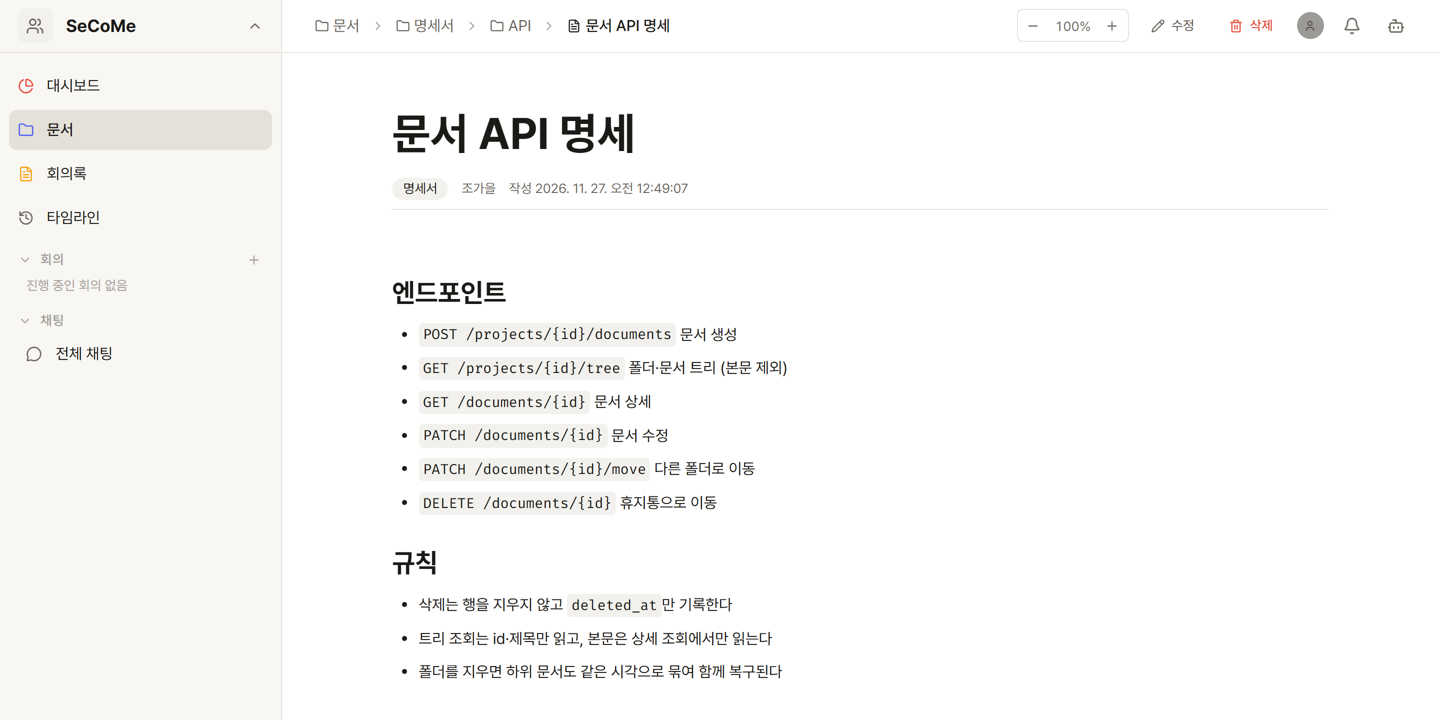
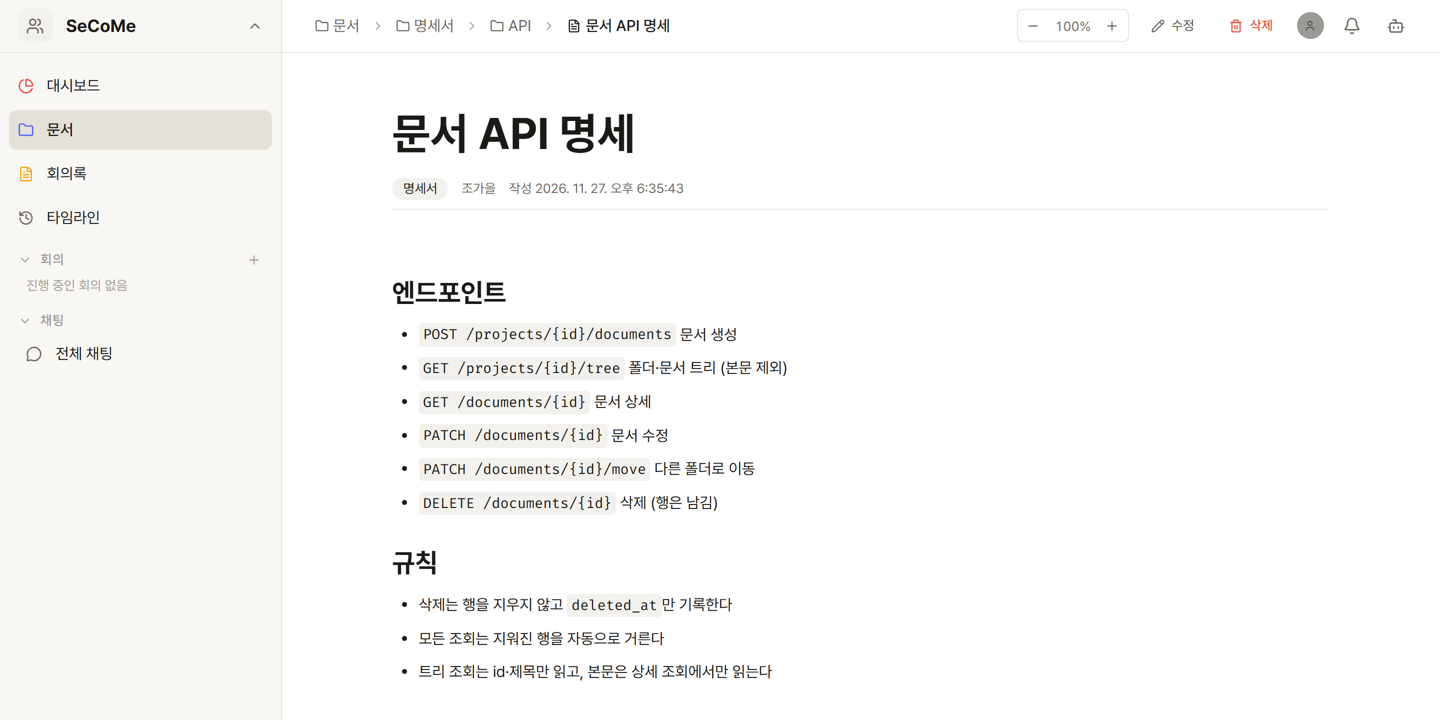
docs: 실제 구현과 다른 휴지통·복구 문구를 바로잡는다

Changed region(s): [[0.2812, 0.8556, 0.5625, 0.9472], [0.4375, 0.6722, 0.5, 0.7333], [0.4375, 0.2444, 0.4688, 0.275]]

diff --git a/public/portfolio/index.html b/public/portfolio/index.html
@@ -75,7 +75,7 @@
   <div style="align-self:center">
     <img class="photo" src="img/photo.jpg" alt="조가을 증명사진">
     <h1>조가을:<br>사용자의 실수가 사고로<br>번지지 않게 설계하는 백엔드 개발자</h1>
-    <p class="intro">사람은 언젠가 실수한다는 전제로 설계합니다.<br>지운 문서는 휴지통에서 되살릴 수 있게, 지운 회의록은 중복으로 다시 생기지 않게,<br>여러 탭에서 동시에 써도 로그인이 풀리지 않게 만들었습니다.<br>왜 그렇게 정했는지는 설계 문서와 커밋 메시지에 남기고, 실제 DB와 Redis에서 직접 확인합니다.</p>
+    <p class="intro">사람은 언젠가 실수한다는 전제로 설계합니다.<br>지운 문서는 바로 사라지지 않고 데이터로 남게, 지운 회의록은 되살릴 수 있고<br>중복으로 다시 생기지 않게, 여러 탭에서 동시에 써도 로그인이 풀리지 않게 만들었습니다.<br>왜 그렇게 정했는지는 설계 문서와 커밋 메시지에 남기고, 실제 DB와 Redis에서 직접 확인합니다.</p>
     <dl class="contact">
       <dt>email</dt><dd>whgaeul@gmail.com</dd>
       <dt>github</dt><dd>github.com/autumn-scv</dd>
@@ -306,7 +306,7 @@
     <table class="kv">
       <tr><td>문서 API</td><td>생성·목록·상세·트리·수정·이동·이름 변경·삭제 8개 설계·구현·테스트</td></tr>
       <tr><td>폴더 도메인</td><td>폴더 도입, 문서 자기참조 제거 (ADR 0011)</td></tr>
-      <tr><td>휴지통</td><td>문서·폴더·회의록 soft delete와 회의록 복구</td></tr>
+      <tr><td>삭제·복구</td><td>문서·폴더·회의록 soft delete와 회의록 복구 API</td></tr>
       <tr><td>팀 규칙</td><td>CONVENTION.md, GitLab 이슈·MR 템플릿 작성,<br>응답 필드명 parentId → folderId 통일</td></tr>
     </table>
     <p class="note">AI 회의록 생성, STT 처리, CI/CD는 팀원 담당입니다.</p>
@@ -316,10 +316,10 @@
 
 <!-- 3. secome 휴지통 -->
 <section>
-  <div class="left"><div class="seq"><div class="t bad">Before — 하드 삭제</div><svg data-seq='{"actors":["사용자","API","DB"],"msgs":[[0,1,"DELETE /folders/{id}"],[1,2,"DELETE folders"],[2,2,"ON DELETE CASCADE → 하위 문서 소멸","bad"],[1,0,"204 — 복구 불가","bad"]]}'></svg></div><div class="seq"><div class="t good">After — 휴지통</div><svg data-seq='{"actors":["사용자","API","DB"],"msgs":[[0,1,"DELETE /folders/{id}"],[1,2,"deleted_at = t (자신+자손 같은 t)"],[2,2,"WHERE deleted_at IS NULL 부분 인덱스","good"],[1,0,"204 — t 묶음으로 복구 가능","good"]]}'></svg></div></div>
+  <div class="left"><div class="seq"><div class="t bad">Before — 하드 삭제</div><svg data-seq='{"actors":["사용자","API","DB"],"msgs":[[0,1,"DELETE /folders/{id}"],[1,2,"DELETE folders"],[2,2,"ON DELETE CASCADE → 하위 문서 소멸","bad"],[1,0,"204 — 복구 불가","bad"]]}'></svg></div><div class="seq"><div class="t good">After — 소프트 삭제</div><svg data-seq='{"actors":["사용자","API","DB"],"msgs":[[0,1,"DELETE /folders/{id}"],[1,2,"deleted_at = t (자신+자손 같은 t)"],[2,2,"WHERE deleted_at IS NULL 부분 인덱스","good"],[1,0,"204 — 행은 남고 t로 묶임","good"]]}'></svg></div></div>
   <div>
     <p class="proj">secome</p>
-    <h1>지우면 끝이던 삭제를,<br>되돌릴 수 있는 삭제로</h1>
+    <h1>지우면 끝이던 삭제를,<br>데이터가 남는 삭제로</h1>
     <h2>문제</h2>
     <ul>
       <li>문서·폴더 삭제가 행을 바로 지웠다</li>
@@ -340,7 +340,8 @@
     <h2>결과</h2>
     <ul>
       <li>새로 추가되는 쿼리도 지워진 행을 자동으로 보지 않는다</li>
-      <li>휴지통이 쌓여도 인덱스에는 살아 있는 행만 남는다</li>
+      <li>지워진 행이 쌓여도 인덱스에는 살아 있는 행만 남는다</li>
+      <li>복구 API는 회의록에 먼저 만들었고, 문서·폴더는 같은 시각으로 묶어 되살릴 수 있는 구조까지 만들었다</li>
     </ul>
     <p class="note"><code>@SQLRestriction</code>은 JPQL UPDATE에는 붙지 않아 일괄 UPDATE에 <code>AND deleted_at IS NULL</code>을 직접 넣었다 · 커밋 641ccf2, 4019c01, e8b51df (2026-08-03)</p>
   </div>
@@ -349,7 +350,7 @@
 
 <!-- 4. secome 회의록 -->
 <section>
-  <div class="left"><div class="seq"><div class="t bad">Before — 필터가 지워진 회의록을 가림</div><svg data-seq='{"actors":["프론트","API","AI","DB"],"msgs":[[0,1,"POST /minutes"],[1,3,"findByMeetingId → 없음 (필터됨)"],[1,2,"회의록 생성 (최대 3분)"],[1,3,"INSERT → 유니크 위반","bad"],[1,0,"409 — AI 토큰 낭비","bad"]]}'></svg></div><div class="seq"><div class="t good">After — 호출 전에 판별</div><svg data-seq='{"actors":["프론트","API","AI","DB"],"msgs":[[0,1,"POST /minutes"],[1,3,"지워진 행 포함 조회 → 지워짐"],[1,0,"409 MINUTES_005 복구 안내","good"],[0,1,"PATCH /minutes/restore"],[1,0,"200 + 되살린 본문","good"]]}'></svg></div></div>
+  <div class="left"><div class="seq"><div class="t bad">Before — 필터가 지워진 회의록을 가림</div><svg data-seq='{"actors":["프론트","API","AI","DB"],"msgs":[[0,1,"POST /minutes"],[1,3,"findByMeetingId → 없음 (필터됨)"],[1,2,"회의록 생성 (최대 3분)"],[1,3,"INSERT → 유니크 위반","bad"],[1,0,"409 — AI 토큰 낭비","bad"]]}'></svg></div><div class="seq"><div class="t good">After — 호출 전에 판별</div><svg data-seq='{"actors":["클라이언트","API","AI","DB"],"msgs":[[0,1,"POST /minutes"],[1,3,"지워진 행 포함 조회 → 지워짐"],[1,0,"409 MINUTES_005 복구 안내 코드","good"],[0,1,"PATCH /minutes/restore"],[1,0,"200 + 되살린 본문","good"]]}'></svg></div></div>
   <div>
     <p class="proj">secome</p>
     <h1>회의록은 되살릴 수는 있어도,<br>다시 만들 수는 없게</h1>
@@ -370,10 +371,10 @@
     </ul>
     <h2>결과</h2>
     <ul>
-      <li>재생성 요청은 AI 호출 전에 <code>409 MINUTES_005</code>로 끊기고, 프론트는 이 코드로 복구 버튼을 띄운다</li>
+      <li>재생성 요청은 AI 호출 전에 <code>409 MINUTES_005</code>로 끊기고, 프론트가 이 코드로 복구를 안내할 수 있게 응답을 나눴다 (화면 연결은 팀 일정상 미구현)</li>
       <li>마이그레이션은 한 줄로 끝났다</li>
     </ul>
-    <p class="note">복구는 필터를 타지 않는 네이티브 UPDATE, 영향 행 0이면 404 · 삭제는 낙관적 락으로 편집과의 충돌을 409로 변환 · 커밋 09e2765, 9743420 (2026-08-04)</p>
+    <p class="note">휴지통은 행을 지우지 않고 <code>deleted_at</code>만 기록하는 soft delete · 복구는 필터를 타지 않는 네이티브 UPDATE, 영향 행 0이면 404 · 삭제는 낙관적 락으로 편집과의 충돌을 409로 변환 · 커밋 09e2765, 9743420 (2026-08-04)</p>
   </div>
   <div class="pg">9</div>
 </section>
